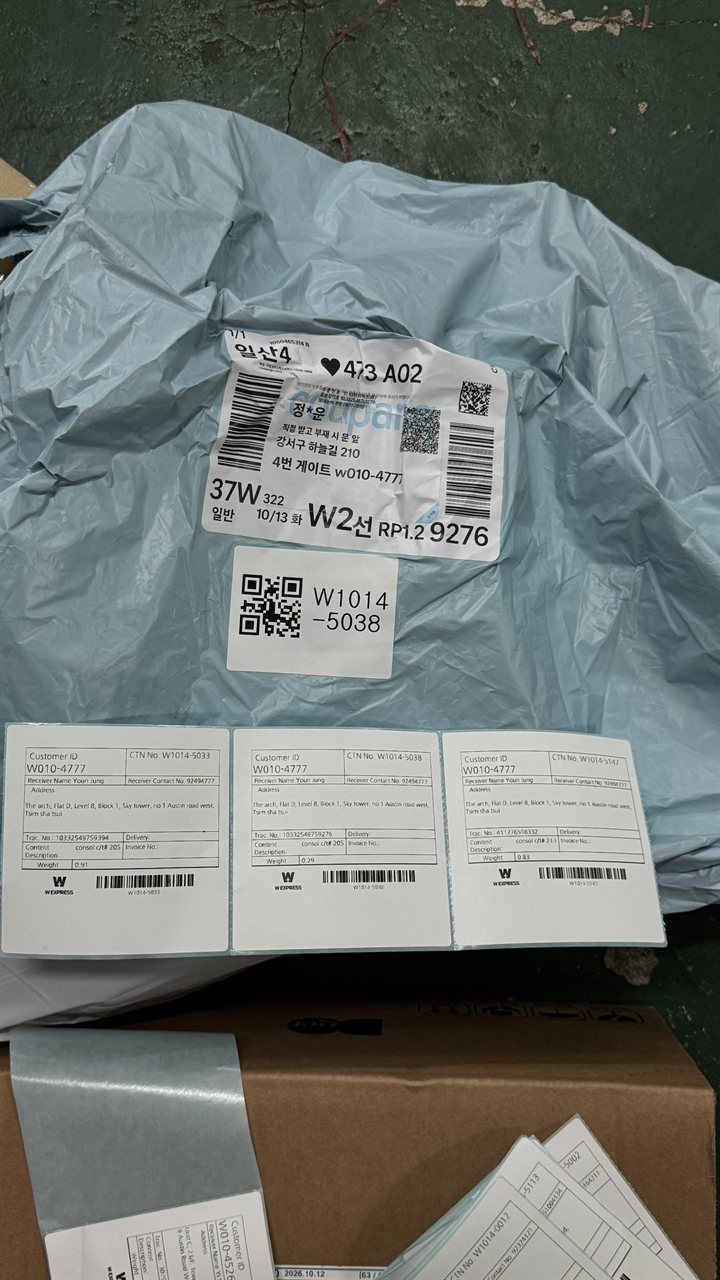
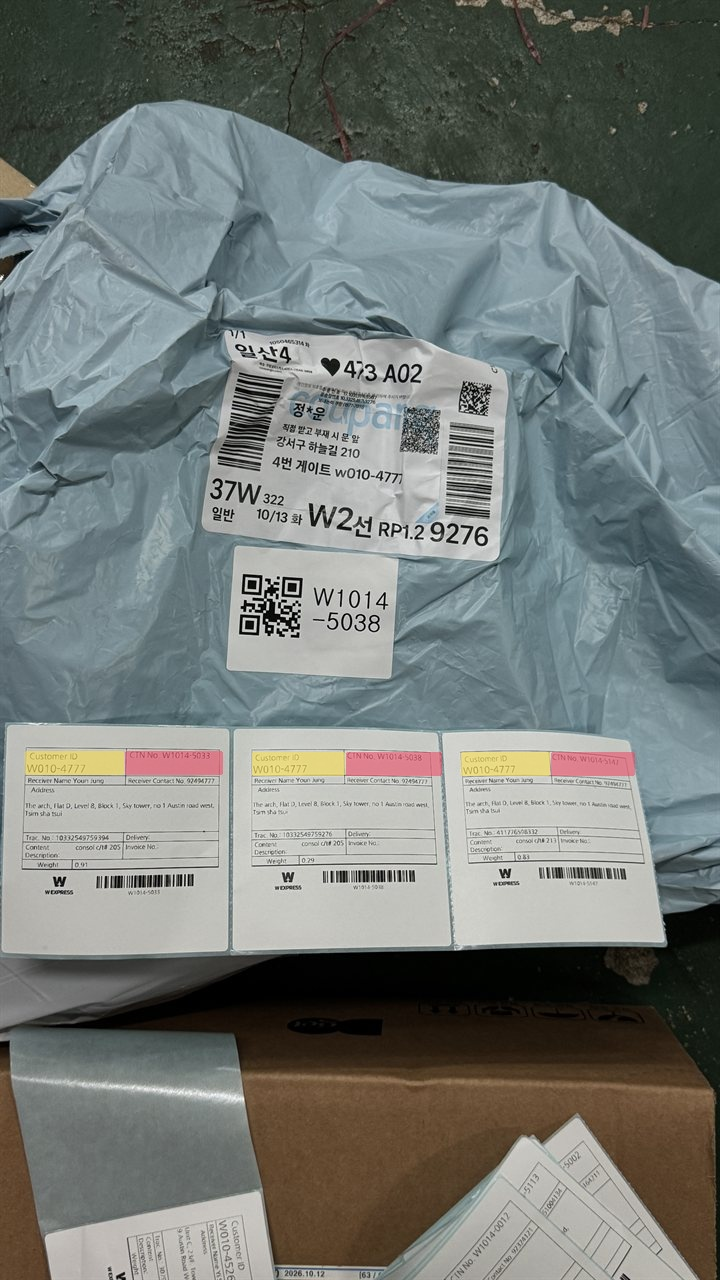
feat(express): highlight Customer ID and CTN No on Chapter 2 label comparison photo

Changed region(s): [[0.3361, 0.5625, 0.6111, 0.625], [0.0306, 0.5625, 0.3056, 0.625], [0.6417, 0.5625, 0.8861, 0.625]]

diff --git a/src/locales/ko.js b/src/locales/ko.js
@@ -503,7 +503,7 @@ export default {
               {
                 src: "/express/02-label-before.jpg",
                 title: "라벨 부착 전: 고객 ID(W010-4777) & 화물 ID(W1014-5038) 동시 대조",
-                desc: "동일 고객 ID(W010-4777) 스티커 중 화물 겉면 QR 라벨의 화물 ID(W1014-5038)와 정확히 일치하는 스티커 확인"
+                desc: "• 노란 부분: 동일한 고객 ID(W010-4777)인 것을 확인할 수 있습니다.\n• 빨간 부분: 동일한 고객 ID여도 다른 화물이기에, CTN넘버(화물코드)가 각각 다름을 확인할 수 있습니다.\n➔ 겉면 QR 라벨의 화물 ID(W1014-5038)와 일치하는 가운데 스티커를 찾아 부착합니다."
               },
               {
                 src: "/express/02-label-after.jpg",
